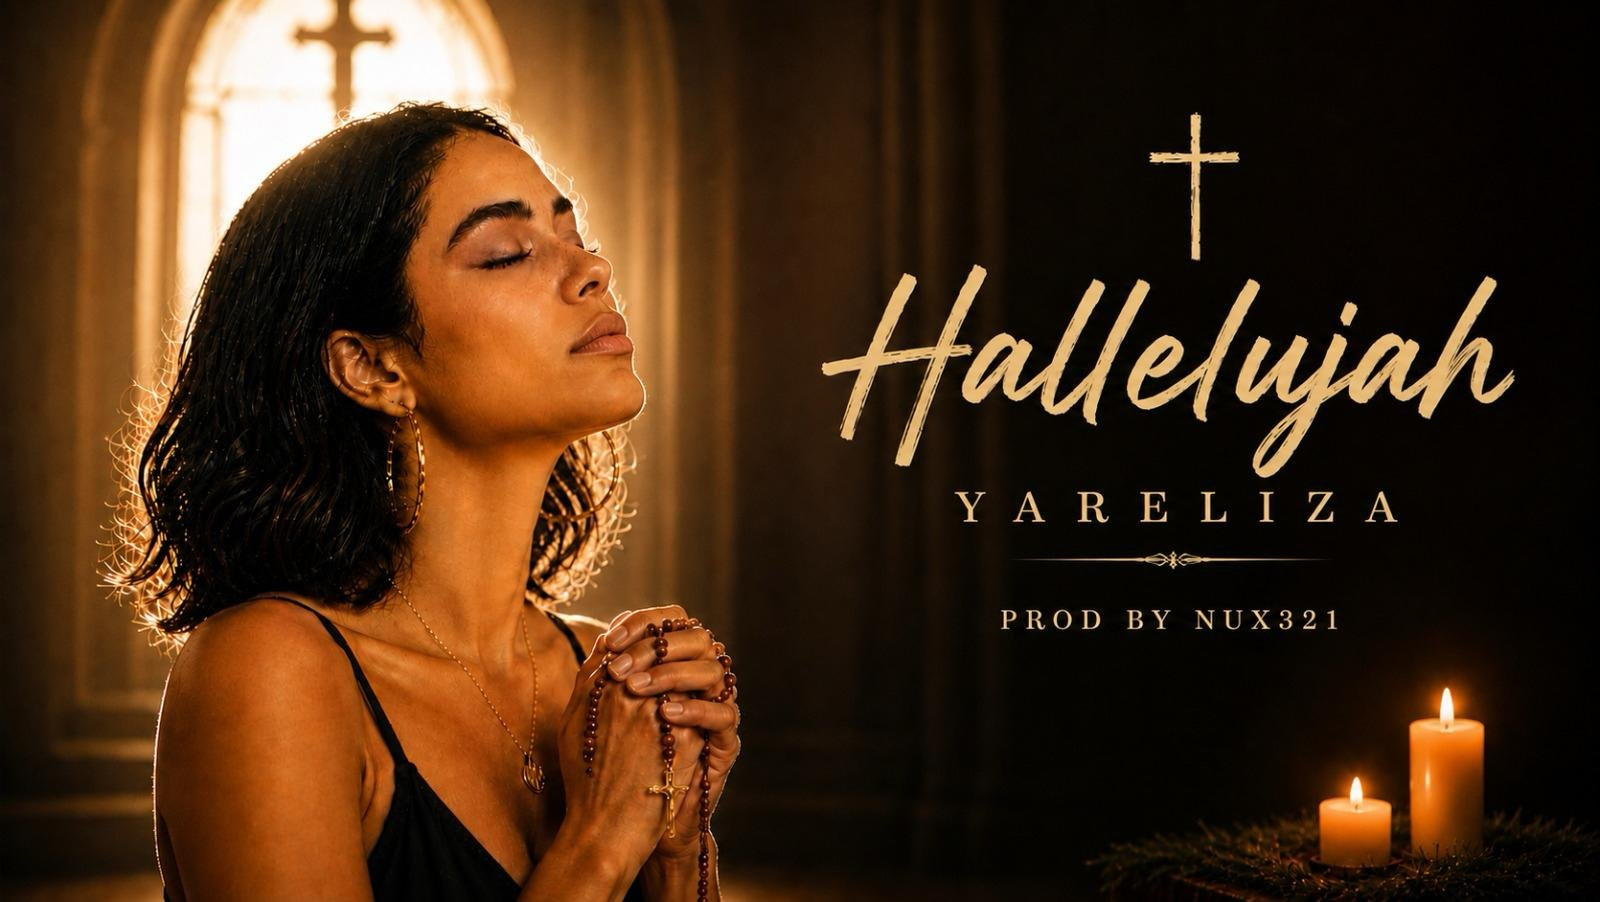
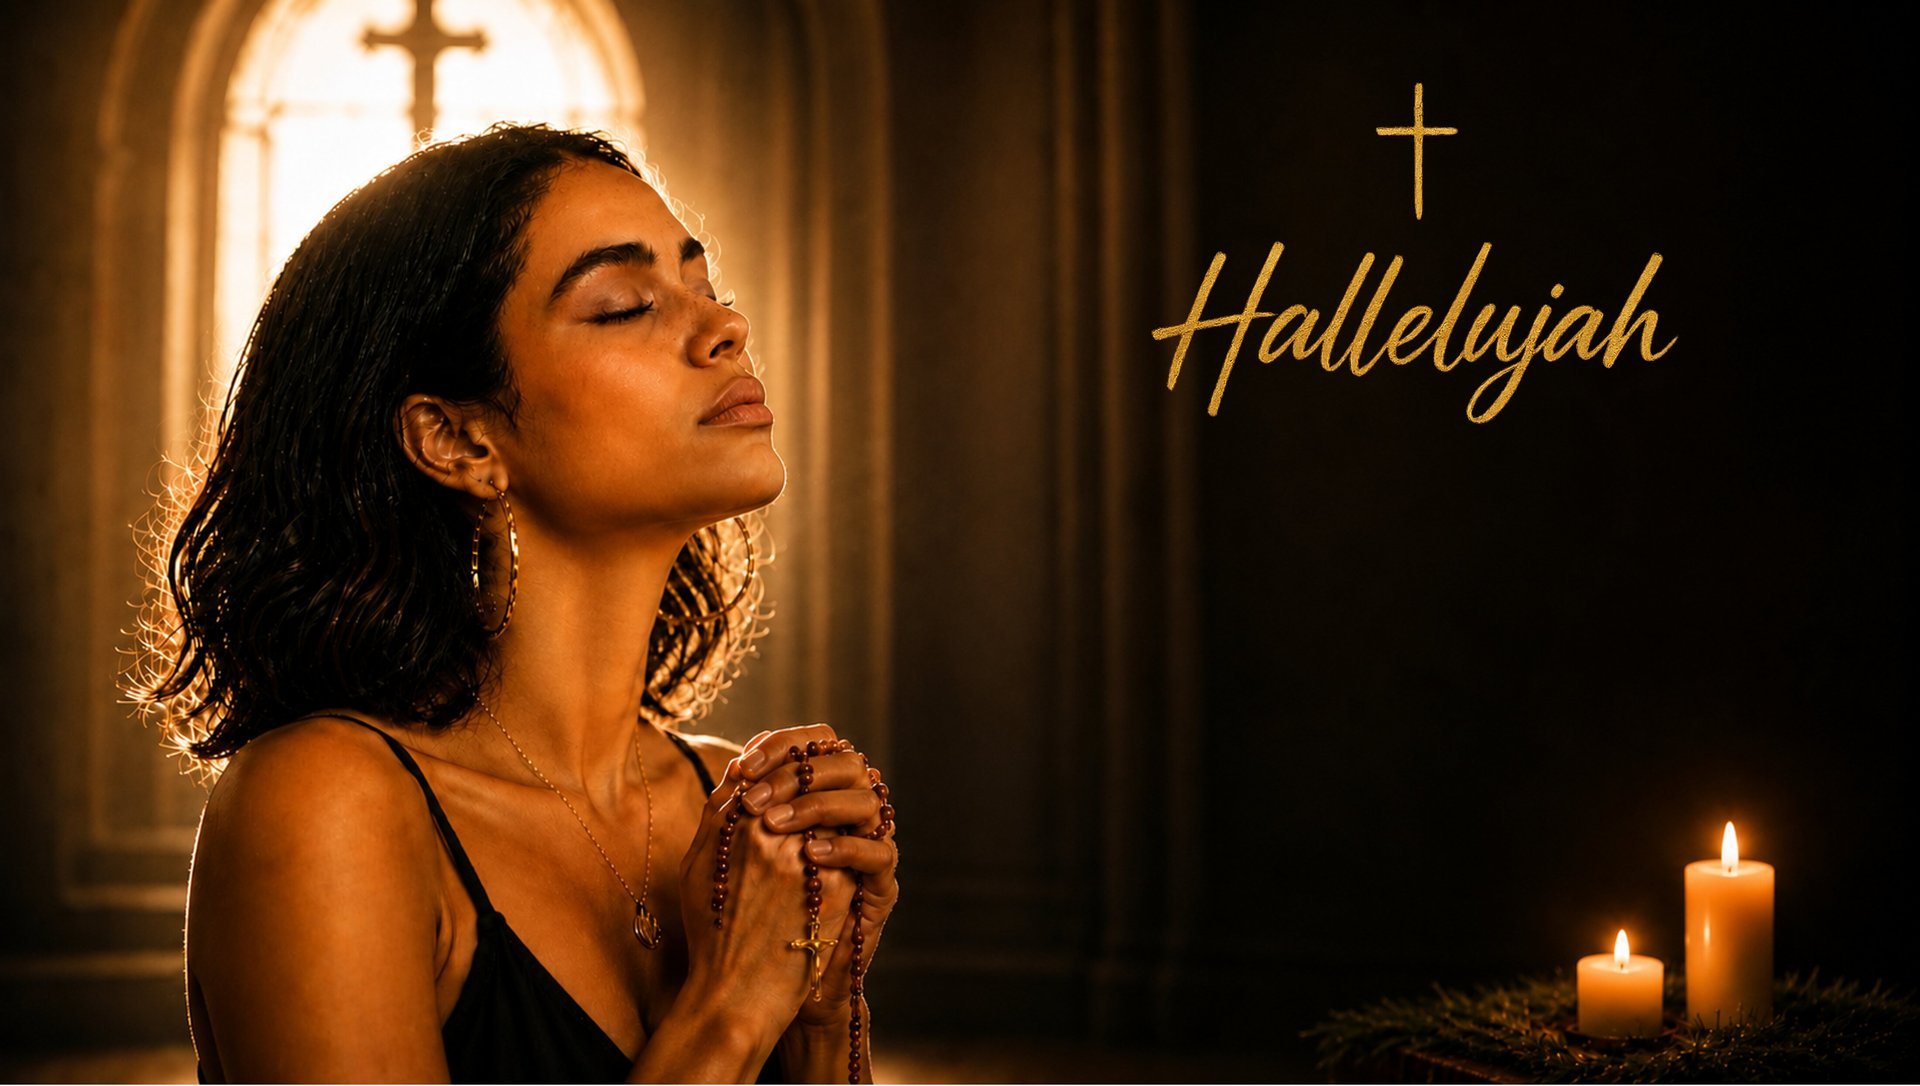
Refresh cover photo (new high-res source) + add Yareliza title under video slot

diff --git a/index.html b/index.html
@@ -54,8 +54,6 @@
     <div class="bg" aria-hidden="true"></div>
     <div class="tint" aria-hidden="true"></div>
 
-    <h1 class="visually-hidden">Yareliza</h1>
-
     <!-- YouTube video slot (drop iframe inside .video-frame when URL is ready) -->
     <section class="video" aria-label="Featured video">
       <div class="video-frame">
@@ -78,6 +76,7 @@
           <span>Video coming soon</span>
         </div>
       </div>
+      <h1 class="video-title">Yareliza</h1>
     </section>
 
     <nav class="social-banner" aria-label="Social media">

diff --git a/styles.css b/styles.css
@@ -103,6 +103,21 @@ body {
   right: clamp(16px, 3vw, 24px);
   z-index: 6;
   width: clamp(280px, 32vw, 380px);
+  display: flex;
+  flex-direction: column;
+  gap: 14px;
+}
+
+.video-title {
+  margin: 0;
+  text-align: center;
+  font-family: var(--serif);
+  font-weight: 400;
+  font-size: clamp(34px, 4vw, 46px);
+  letter-spacing: -0.025em;
+  line-height: 1;
+  color: var(--ink);
+  text-shadow: 0 2px 24px rgba(0, 0, 0, 0.55);
 }
 
 .video-frame {
